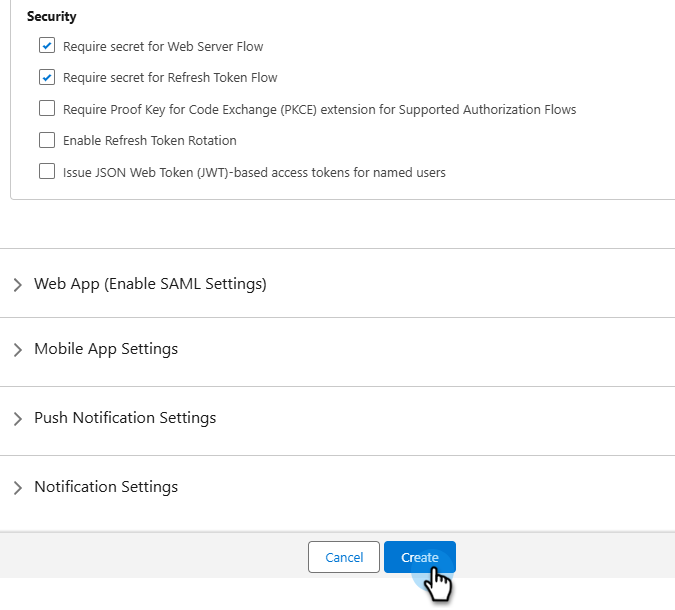
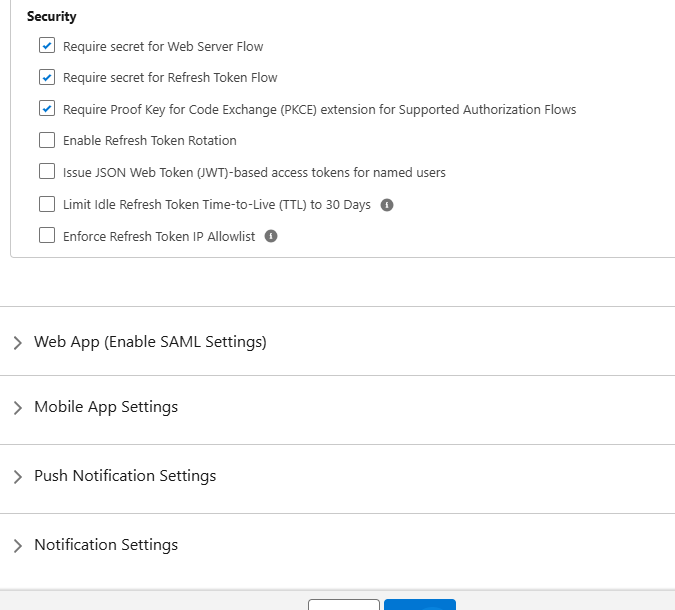
updating oauth sfdc doc

diff --git a/help/marketo/product-docs/crm-sync/salesforce-sync/log-in-using-oauth-2-0.md b/help/marketo/product-docs/crm-sync/salesforce-sync/log-in-using-oauth-2-0.md
@@ -57,7 +57,7 @@ Salesforce uses the OAuth protocol to allow users of applications to securely ac
 
    ![](assets/log-in-using-oauth-6.png)
 
-1. Under _Security_, make sure only **Require secret for Web Server Flow** and **Require secret for Refresh Token Flow** are selected.
+1. Under _Security_, make sure only **Require secret for Web Server Flow**, **Require secret for Refresh Token Flow**, and **Require Proof Key for Code Exchange (PKCE)...** are selected.
 
    ![](assets/log-in-using-oauth-7.png)
 
@@ -79,9 +79,9 @@ Salesforce uses the OAuth protocol to allow users of applications to securely ac
 >
 >* API access must be enabled for the Salesforce Sync User (if you are a Salesforce Professional Edition user, that access is not available by default&#8212;contact your Salesforce Account Executive).
 >* Marketo Sync user has to be created in Salesforce.
->* For existing customers, Feature to "Enable OAuth for SFDC sync" is enabled on the customer's subscription.
 >* Pop-up blockers are disabled.
 >* Connected App is created and the [!UICONTROL Consumer Key] and [!UICONTROL Consumer Secret] are available for use.
+>* Contact [Marketo Support](https://experienceleague.adobe.com/en/support) to get the following features enabled: Enable OAuth for SFDC sync, Require secret for Refresh Token Flow, and Proof Key for Code Exchange (PKCE).
 
 >[!CAUTION]
 >
